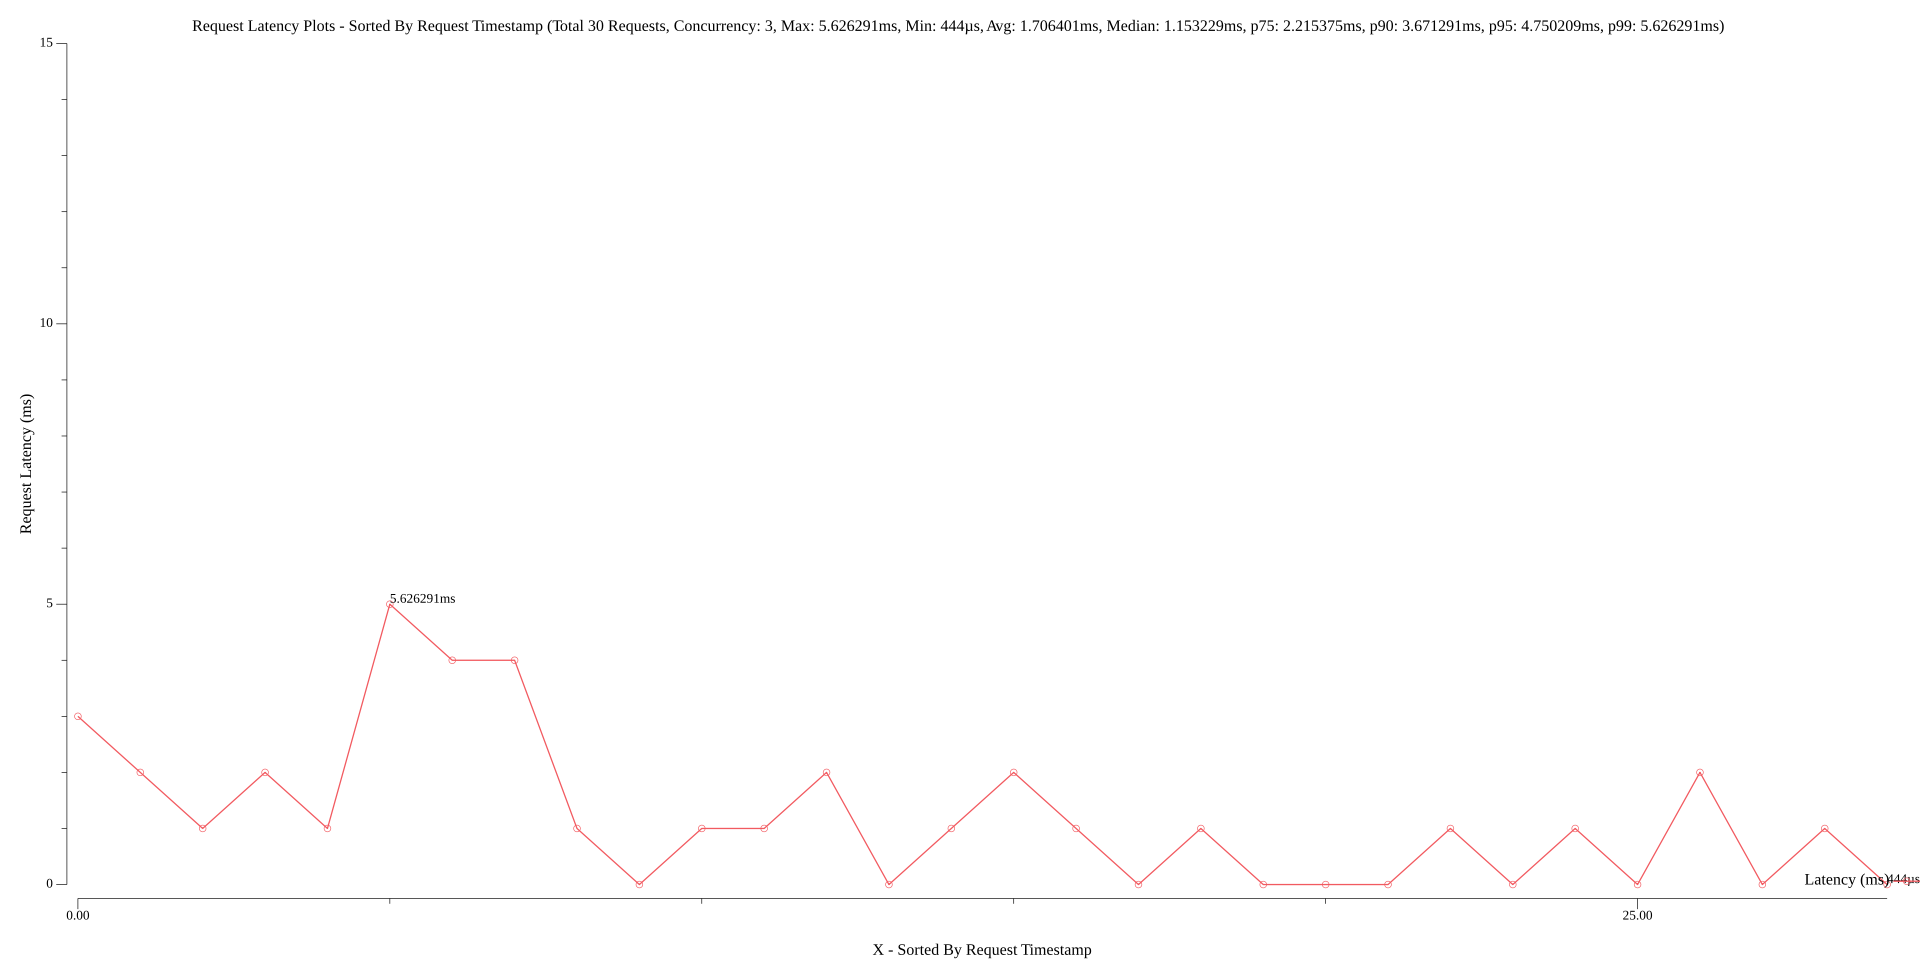
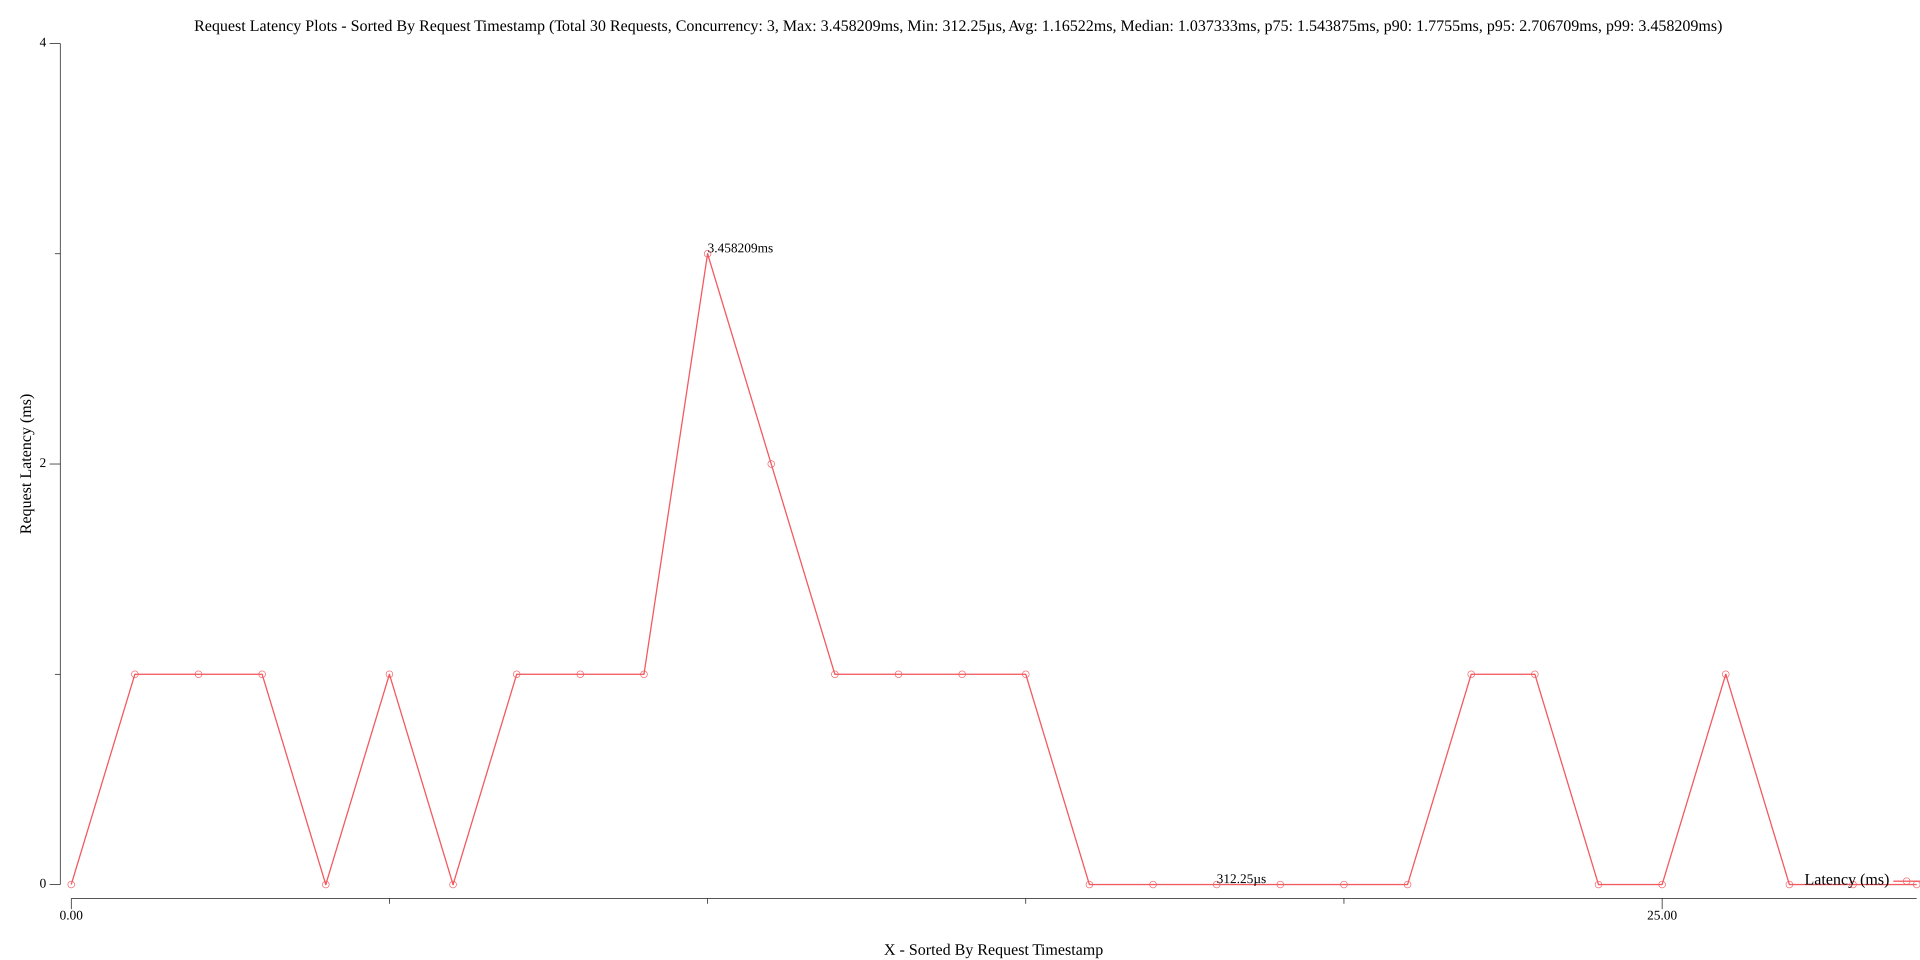
Support duration based benchmark

diff --git a/benchmark.go b/benchmark.go
@@ -7,7 +7,6 @@ import (
 	"net/http"
 	"sort"
 	"sync"
-	"sync/atomic"
 	"time"
 
 	"github.com/curtisnewbie/miso/util"
@@ -96,36 +95,63 @@ func NewRequestSender(buildReq BuildRequestFunc, parseRes ParseResponseFunc) Sen
 type SendRequestFunc func(c *http.Client) Result
 type LogExtraStatFunc func([]Benchmark) string
 
-func StartBenchmark(concurrent int, round int, sendReqFunc SendRequestFunc, logStatFunc ...LogExtraStatFunc) {
-	if round < 1 {
-		round = 1
+type BenchmarkSpec struct {
+	Concurrent  int
+	Round       int
+	Duration    time.Duration
+	SendReqFunc SendRequestFunc
+	LogStatFunc []LogExtraStatFunc
+}
+
+func StartBenchmark(spec BenchmarkSpec) {
+	durBased := false
+	if spec.Duration > 0 {
+		durBased = true
+	} else {
+		if spec.Round < 1 {
+			spec.Round = 1
+		}
 	}
 
-	store := NewBenchmarkStore(concurrent * round)
-	pool := util.NewAsyncPool(concurrent, concurrent)
-	aw := util.NewAwaitFutures[any](pool)
-	var warmupWg sync.WaitGroup // for warmup
-	warmupWg.Add(concurrent)
+	var storeSize int
+	if !durBased {
+		storeSize = spec.Concurrent * spec.Round
+	} else {
+		storeSize = spec.Concurrent * 10 // 10 is just a rough estimate
+	}
 
-	var startSet int32 = 0
+	store := NewBenchmarkStore(storeSize)
+	pool := util.NewAsyncPool(spec.Concurrent, spec.Concurrent)
+	aw := util.NewAwaitFutures[any](pool)
+
+	var warmupWg sync.WaitGroup // for warmup
+	warmupWg.Add(spec.Concurrent)
+
+	var startTimeOnce sync.Once
 	var startTime time.Time
 	util.DebugPrintlnf(Debug, "Creating workers: %v", time.Now())
 
-	for i := 0; i < concurrent; i++ {
+	for i := 0; i < spec.Concurrent; i++ {
 		wi := i
 		aw.SubmitAsync(func() (any, error) {
 			client := newClient()
-			triggerOnce(client, store, sendReqFunc, false)
-			warmupWg.Done()
+			func() {
+				defer warmupWg.Done()
+				triggerOnce(client, store, spec.SendReqFunc, false)
+			}()
 			warmupWg.Wait() // synchronize all of them
 
-			if atomic.CompareAndSwapInt32(&startSet, 0, 1) {
-				startTime = time.Now()
-			}
+			startTimeOnce.Do(func() { startTime = time.Now() })
 			util.DebugPrintlnf(Debug, "Worker-%d start ramping: %v", wi, time.Now())
 
-			for j := 0; j < round; j++ {
-				triggerOnce(client, store, sendReqFunc, true)
+			if durBased {
+				for time.Since(startTime) <= spec.Duration {
+					triggerOnce(client, store, spec.SendReqFunc, true)
+				}
+			} else {
+				for j := 0; j < spec.Round; j++ {
+					triggerOnce(client, store, spec.SendReqFunc, true)
+				}
 			}
 			return nil, nil
 		})
@@ -134,9 +160,9 @@ func StartBenchmark(concurrent int, round int, sendReqFunc SendRequestFunc, logS
 	endTime := time.Now()
 	util.DebugPrintlnf(Debug, "Benchmark endTime: %v", endTime)
 
-	stats := PrintStats(concurrent, round, store.bench, endTime.Sub(startTime), logStatFunc...)
+	stats := PrintStats(spec, store.bench, endTime.Sub(startTime), spec.LogStatFunc...)
 	titleStats := fmt.Sprintf("(Total %d Requests, Concurrency: %v, Max: %v, Min: %v, Avg: %v, Median: %v, p75: %v, p90: %v, p95: %v, p99: %v)",
-		len(store.bench), concurrent, stats.Max, stats.Min, stats.Avg, stats.Med, stats.P75.Took, stats.P90.Took, stats.P95.Took, stats.P99.Took)
+		len(store.bench), spec.Concurrent, stats.Max, stats.Min, stats.Avg, stats.Med, stats.P75.Took, stats.P90.Took, stats.P95.Took, stats.P99.Took)
 
 	if GeneratePlots {
 		util.Printlnf("\n--------- Plots ---------------\n")
@@ -210,19 +236,25 @@ type Stats struct {
 	P75Index int
 }
 
-func PrintStats(concurrent int, round int, bench []Benchmark, totalTime time.Duration, logStatFunc ...LogExtraStatFunc) Stats {
+func PrintStats(spec BenchmarkSpec, bench []Benchmark, totalTime time.Duration, logStatFunc ...LogExtraStatFunc) Stats {
 	var (
+		concurrent   = spec.Concurrent
+		round        = spec.Round
+		dur          = spec.Duration
 		sum          time.Duration
 		stats        Stats
 		statusCount  = make(map[int]int, len(bench))
 		successCount = make(map[bool]int, len(bench))
+		total        = len(bench)
 	)
 
 	SortTook(bench) // sort by duration for calculating median
-	if len(bench)%2 == 0 {
-		stats.Med = (bench[len(bench)/2].Took + bench[len(bench)/2-1].Took) / 2
-	} else {
-		stats.Med = bench[len(bench)/2].Took
+	if total > 0 {
+		if total%2 == 0 {
+			stats.Med = (bench[total/2].Took + bench[total/2-1].Took) / 2
+		} else {
+			stats.Med = bench[total/2].Took
+		}
 	}
 
 	f, err := util.ReadWriteFile(DataOutputFilename)
@@ -244,7 +276,10 @@ func PrintStats(concurrent int, round int, bench []Benchmark, totalTime time.Dur
 		successCount[b.Success]++
 		sum += b.Took
 	}
-	stats.Avg = sum / time.Duration(len(bench))
+
+	if total > 0 {
+		stats.Avg = sum / time.Duration(total)
+	}
 
 	SortTimestamp(bench) // sort by request order for readability
 	for _, b := range bench {
@@ -253,13 +288,16 @@ func PrintStats(concurrent int, round int, bench []Benchmark, totalTime time.Dur
 	}
 
 	SortTook(bench)
-	totalReq := concurrent * round
 	util.Printlnf("\n--------- Brief ---------------\n")
 	util.Printlnf("total_time: %v", totalTime)
-	util.Printlnf("total_requests: %v", totalReq)
-	util.Printlnf("throughput: %.0f req/sec", float64(totalReq)/(float64(totalTime)/float64(time.Second)))
+	util.Printlnf("total_requests: %v", total)
+	util.Printlnf("throughput: %.0f req/sec", float64(total)/(float64(totalTime)/float64(time.Second)))
 	util.Printlnf("concurrency: %v", concurrent)
-	util.Printlnf("round: %v", round)
+	if dur > 0 {
+		util.Printlnf("duration: %v", dur)
+	} else {
+		util.Printlnf("rounds (for each worker): %v", round)
+	}
 	util.Printlnf("status_count: %v", statusCount)
 	util.Printlnf("success_count: %v", successCount)
 	util.Printlnf("\n--------- Latency -------------\n")
@@ -268,22 +306,26 @@ func PrintStats(concurrent int, round int, bench []Benchmark, totalTime time.Dur
 	util.Printlnf("median: %v", stats.Med)
 	util.Printlnf("avg: %v", stats.Avg)
 
-	p75, p75i := percentile(bench, 75)
-	p90, p90i := percentile(bench, 90)
-	p95, p95i := percentile(bench, 95)
-	p99, p99i := percentile(bench, 99)
-	stats.P75 = p75
-	stats.P90 = p90
-	stats.P95 = p95
-	stats.P99 = p99
-	stats.P75Index = p75i
-	stats.P90Index = p90i
-	stats.P95Index = p95i
-	stats.P99Index = p99i
-	util.Printlnf("p75: %v", p75.Took)
-	util.Printlnf("p90: %v", p90.Took)
-	util.Printlnf("p95: %v", p95.Took)
-	util.Printlnf("p99: %v", p99.Took)
+	if total > 0 {
+		p75, p75i := percentile(bench, 75)
+		p90, p90i := percentile(bench, 90)
+		p95, p95i := percentile(bench, 95)
+		p99, p99i := percentile(bench, 99)
+		stats.P75 = p75
+		stats.P90 = p90
+		stats.P95 = p95
+		stats.P99 = p99
+		stats.P75Index = p75i
+		stats.P90Index = p90i
+		stats.P95Index = p95i
+		stats.P99Index = p99i
+
+	}
+
+	util.Printlnf("p75: %v", stats.P75.Took)
+	util.Printlnf("p90: %v", stats.P90.Took)
+	util.Printlnf("p95: %v", stats.P95.Took)
+	util.Printlnf("p99: %v", stats.P99.Took)
 	util.Printlnf("\n--------- Data ----------------\n")
 	util.Printlnf("data file: %v", DataOutputFilename)
 
@@ -310,7 +352,7 @@ func Plot(bench []Benchmark, stat Stats, title string, xlabel string, fname stri
 	} else {
 		p.Y.Min = 0
 	}
-	p.Y.Max = float64(stat.Max.Milliseconds()) + 10
+	p.Y.Max = float64(stat.Max.Milliseconds()) + 1
 
 	data := ToXYs(bench)
 	util.DebugPrintlnf(Debug, "plot data: %+v", data)

diff --git a/test/benchmark_test.go b/test/benchmark_test.go
@@ -20,5 +20,9 @@ func TestStartBenchmark(t *testing.T) {
 		})
 	concurrent := 3
 	round := 10
-	benchmarker.StartBenchmark(concurrent, round, sendRequest)
+	benchmarker.StartBenchmark(benchmarker.BenchmarkSpec{
+		Concurrent:  concurrent,
+		Round:       round,
+		SendReqFunc: sendRequest,
+	})
 }

diff --git a/README.md b/README.md
@@ -16,63 +16,69 @@ func TestStartBenchmark(t *testing.T) {
 		})
 	concurrent := 3
 	round := 10
-	benchmarker.StartBenchmark(concurrent, round, sendRequest)
+	benchmarker.StartBenchmark(benchmarker.BenchmarkSpec{
+		Concurrent:  concurrent,
+		Round:       round,
+		SendReqFunc: sendRequest,
+	})
 }
 ```
 
 ## Output
 
 ```
-Timestamp: 1724315849189229, Took: 3.671291ms, Success: true, HttpStatus: 200, Extra: map[]
-Timestamp: 1724315849192901, Took: 2.508584ms, Success: true, HttpStatus: 200, Extra: map[]
-Timestamp: 1724315849193780, Took: 1.6275ms, Success: true, HttpStatus: 200, Extra: map[]
-Timestamp: 1724315849193814, Took: 2.531166ms, Success: true, HttpStatus: 200, Extra: map[]
-Timestamp: 1724315849195409, Took: 1.277083ms, Success: true, HttpStatus: 200, Extra: map[]
-Timestamp: 1724315849195410, Took: 5.626291ms, Success: true, HttpStatus: 200, Extra: map[]
-Timestamp: 1724315849196346, Took: 4.750209ms, Success: true, HttpStatus: 200, Extra: map[]
-Timestamp: 1724315849196686, Took: 4.349958ms, Success: true, HttpStatus: 200, Extra: map[]
-Timestamp: 1724315849201037, Took: 1.441166ms, Success: true, HttpStatus: 200, Extra: map[]
-Timestamp: 1724315849201038, Took: 716.791µs, Success: true, HttpStatus: 200, Extra: map[]
-Timestamp: 1724315849201096, Took: 1.389583ms, Success: true, HttpStatus: 200, Extra: map[]
-Timestamp: 1724315849201755, Took: 1.171667ms, Success: true, HttpStatus: 200, Extra: map[]
-Timestamp: 1724315849202479, Took: 2.215375ms, Success: true, HttpStatus: 200, Extra: map[]
-Timestamp: 1724315849202486, Took: 888.375µs, Success: true, HttpStatus: 200, Extra: map[]
-Timestamp: 1724315849202930, Took: 1.899708ms, Success: true, HttpStatus: 200, Extra: map[]
-Timestamp: 1724315849203375, Took: 2.326917ms, Success: true, HttpStatus: 200, Extra: map[]
-Timestamp: 1724315849204695, Took: 1.014625ms, Success: true, HttpStatus: 200, Extra: map[]
-Timestamp: 1724315849204830, Took: 610.041µs, Success: true, HttpStatus: 200, Extra: map[]
-Timestamp: 1724315849205440, Took: 1.134791ms, Success: true, HttpStatus: 200, Extra: map[]
-Timestamp: 1724315849205703, Took: 924.459µs, Success: true, HttpStatus: 200, Extra: map[]
-Timestamp: 1724315849205710, Took: 800.125µs, Success: true, HttpStatus: 200, Extra: map[]
-Timestamp: 1724315849206511, Took: 582.792µs, Success: true, HttpStatus: 200, Extra: map[]
-Timestamp: 1724315849206576, Took: 1.000708ms, Success: true, HttpStatus: 200, Extra: map[]
-Timestamp: 1724315849206627, Took: 814µs, Success: true, HttpStatus: 200, Extra: map[]
-Timestamp: 1724315849207094, Took: 1.107208ms, Success: true, HttpStatus: 200, Extra: map[]
-Timestamp: 1724315849207442, Took: 628.75µs, Success: true, HttpStatus: 200, Extra: map[]
-Timestamp: 1724315849207577, Took: 2.008667ms, Success: true, HttpStatus: 200, Extra: map[]
-Timestamp: 1724315849208071, Took: 598.375µs, Success: true, HttpStatus: 200, Extra: map[]
-Timestamp: 1724315849208202, Took: 1.131833ms, Success: true, HttpStatus: 200, Extra: map[]
-Timestamp: 1724315849208670, Took: 444µs, Success: true, HttpStatus: 200, Extra: map[]
+Timestamp: 1724394471847895, Took: 689.375µs, Success: true, HttpStatus: 200, Extra: map[]
+Timestamp: 1724394471847912, Took: 1.699167ms, Success: true, HttpStatus: 200, Extra: map[]
+Timestamp: 1724394471847925, Took: 1.532291ms, Success: true, HttpStatus: 200, Extra: map[]
+Timestamp: 1724394471848585, Took: 1.543875ms, Success: true, HttpStatus: 200, Extra: map[]
+Timestamp: 1724394471849457, Took: 531.583µs, Success: true, HttpStatus: 200, Extra: map[]
+Timestamp: 1724394471849612, Took: 1.028917ms, Success: true, HttpStatus: 200, Extra: map[]
+Timestamp: 1724394471849989, Took: 790.208µs, Success: true, HttpStatus: 200, Extra: map[]
+Timestamp: 1724394471850129, Took: 1.04575ms, Success: true, HttpStatus: 200, Extra: map[]
+Timestamp: 1724394471850641, Took: 1.24525ms, Success: true, HttpStatus: 200, Extra: map[]
+Timestamp: 1724394471850780, Took: 1.898375ms, Success: true, HttpStatus: 200, Extra: map[]
+Timestamp: 1724394471851175, Took: 3.458209ms, Success: true, HttpStatus: 200, Extra: map[]
+Timestamp: 1724394471851887, Took: 2.706709ms, Success: true, HttpStatus: 200, Extra: map[]
+Timestamp: 1724394471852678, Took: 1.3715ms, Success: true, HttpStatus: 200, Extra: map[]
+Timestamp: 1724394471854050, Took: 1.595041ms, Success: true, HttpStatus: 200, Extra: map[]
+Timestamp: 1724394471854594, Took: 1.292333ms, Success: true, HttpStatus: 200, Extra: map[]
+Timestamp: 1724394471854633, Took: 1.7755ms, Success: true, HttpStatus: 200, Extra: map[]
+Timestamp: 1724394471855646, Took: 925µs, Success: true, HttpStatus: 200, Extra: map[]
+Timestamp: 1724394471855886, Took: 440.833µs, Success: true, HttpStatus: 200, Extra: map[]
+Timestamp: 1724394471856327, Took: 312.25µs, Success: true, HttpStatus: 200, Extra: map[]
+Timestamp: 1724394471856409, Took: 660.333µs, Success: true, HttpStatus: 200, Extra: map[]
+Timestamp: 1724394471856571, Took: 530.708µs, Success: true, HttpStatus: 200, Extra: map[]
+Timestamp: 1724394471856640, Took: 711.042µs, Success: true, HttpStatus: 200, Extra: map[]
+Timestamp: 1724394471857069, Took: 1.661875ms, Success: true, HttpStatus: 200, Extra: map[]
+Timestamp: 1724394471857102, Took: 1.049875ms, Success: true, HttpStatus: 200, Extra: map[]
+Timestamp: 1724394471857351, Took: 601.792µs, Success: true, HttpStatus: 200, Extra: map[]
+Timestamp: 1724394471857953, Took: 746.542µs, Success: true, HttpStatus: 200, Extra: map[]
+Timestamp: 1724394471858152, Took: 1.403916ms, Success: true, HttpStatus: 200, Extra: map[]
+Timestamp: 1724394471858731, Took: 517.708µs, Success: true, HttpStatus: 200, Extra: map[]
+Timestamp: 1724394471859249, Took: 710.042µs, Success: true, HttpStatus: 200, Extra: map[]
+Timestamp: 1724394471859959, Took: 480.625µs, Success: true, HttpStatus: 200, Extra: map[]
 
 
 --------- Brief ---------------
 
+total_time: 12.547042ms
 total_requests: 30
+throughput: 2391 req/sec
 concurrency: 3
-round: 10
+rounds (for each worker): 10
 status_count: map[200:30]
 success_count: map[true:30]
 
 --------- Latency -------------
 
-min: 444µs
-max: 5.626291ms
-median: 1.153229ms
-avg: 1.706401ms
-p75: 2.215375ms
-p90: 3.671291ms
-p95: 4.750209ms
-p99: 5.626291ms
+min: 312.25µs
+max: 3.458209ms
+median: 1.037333ms
+avg: 1.16522ms
+p75: 1.543875ms
+p90: 1.7755ms
+p95: 2.706709ms
+p99: 3.458209ms
 
 --------- Data ----------------
 
